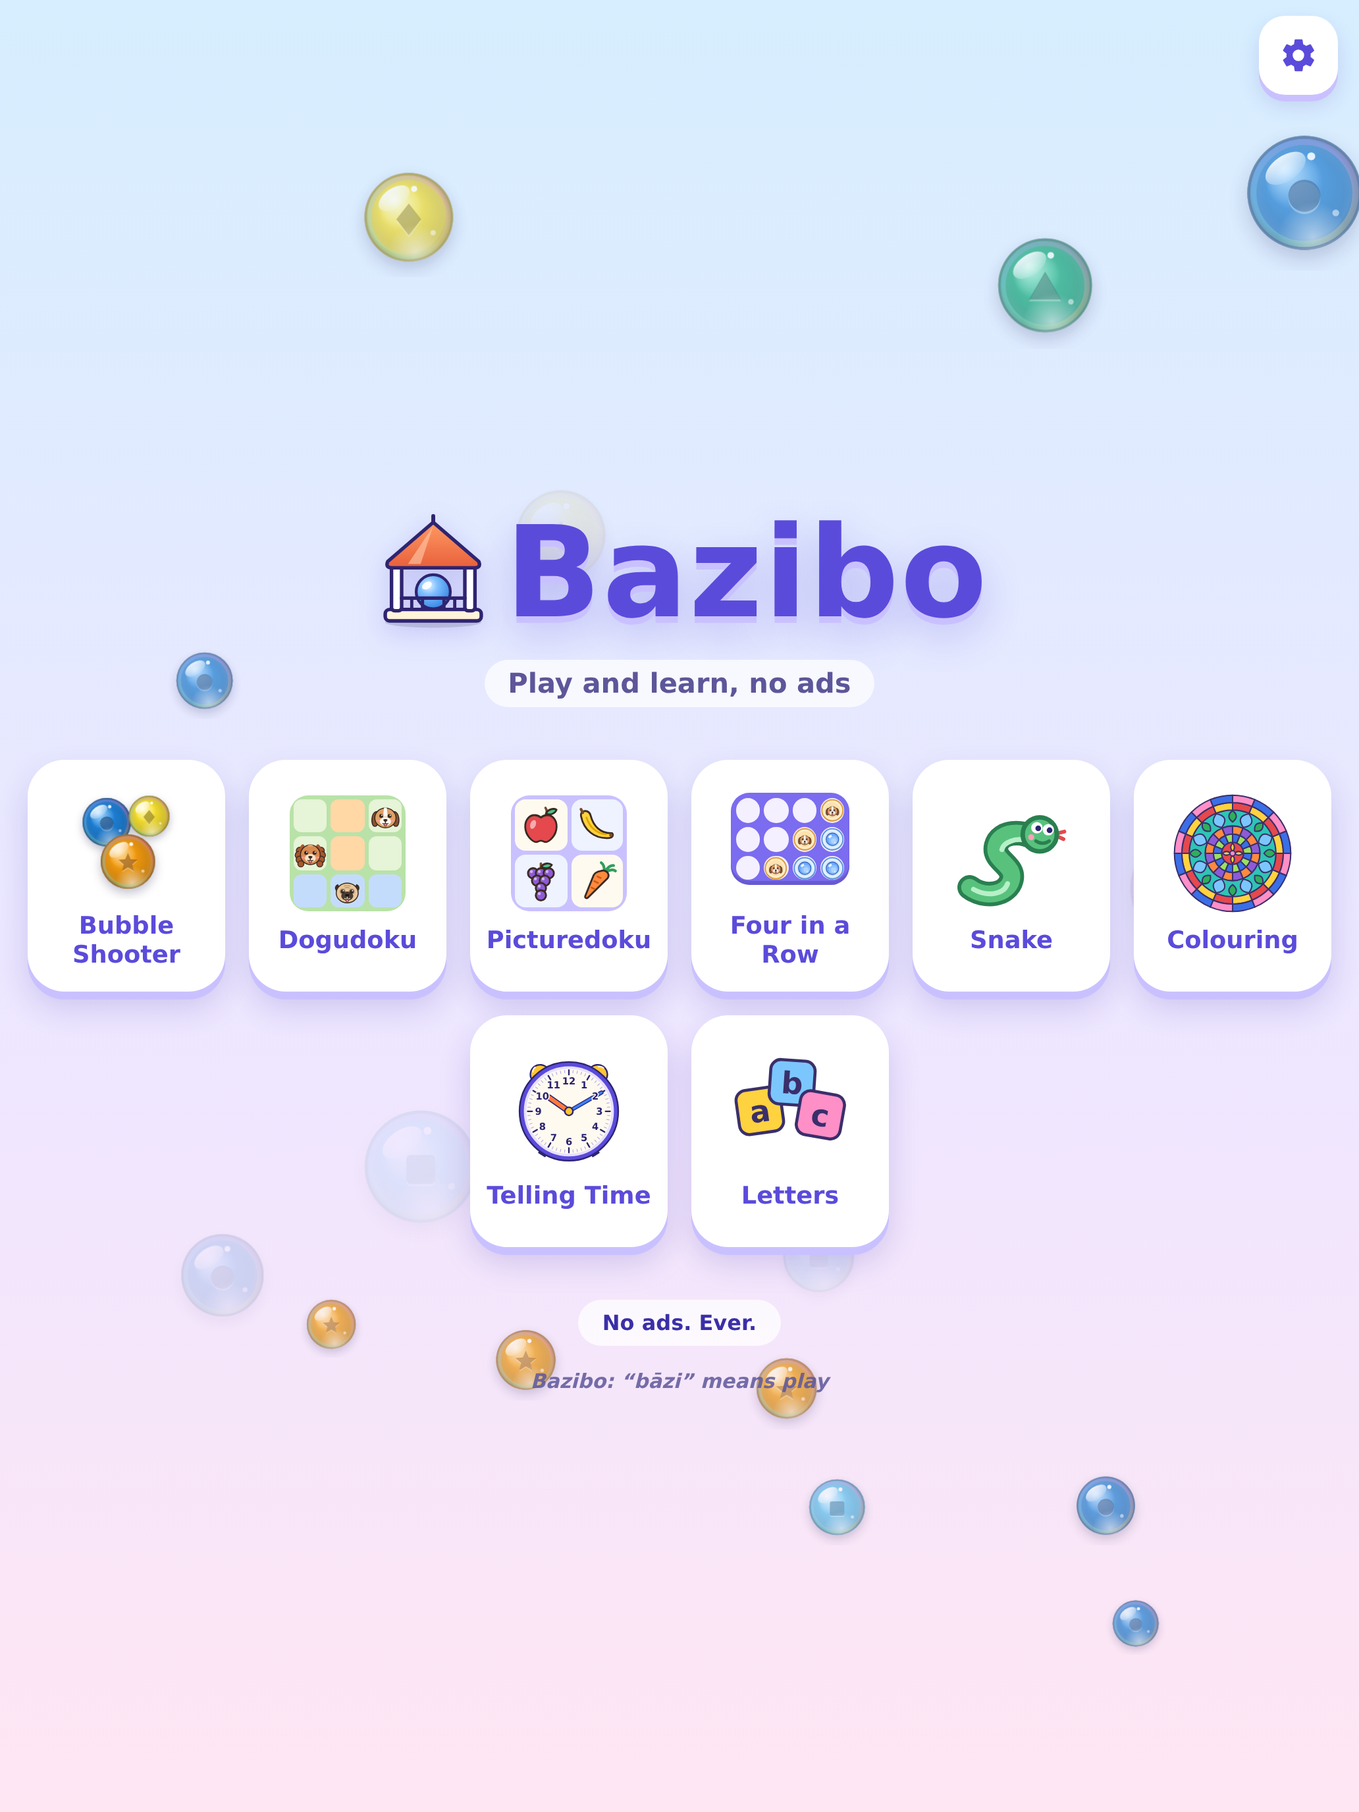
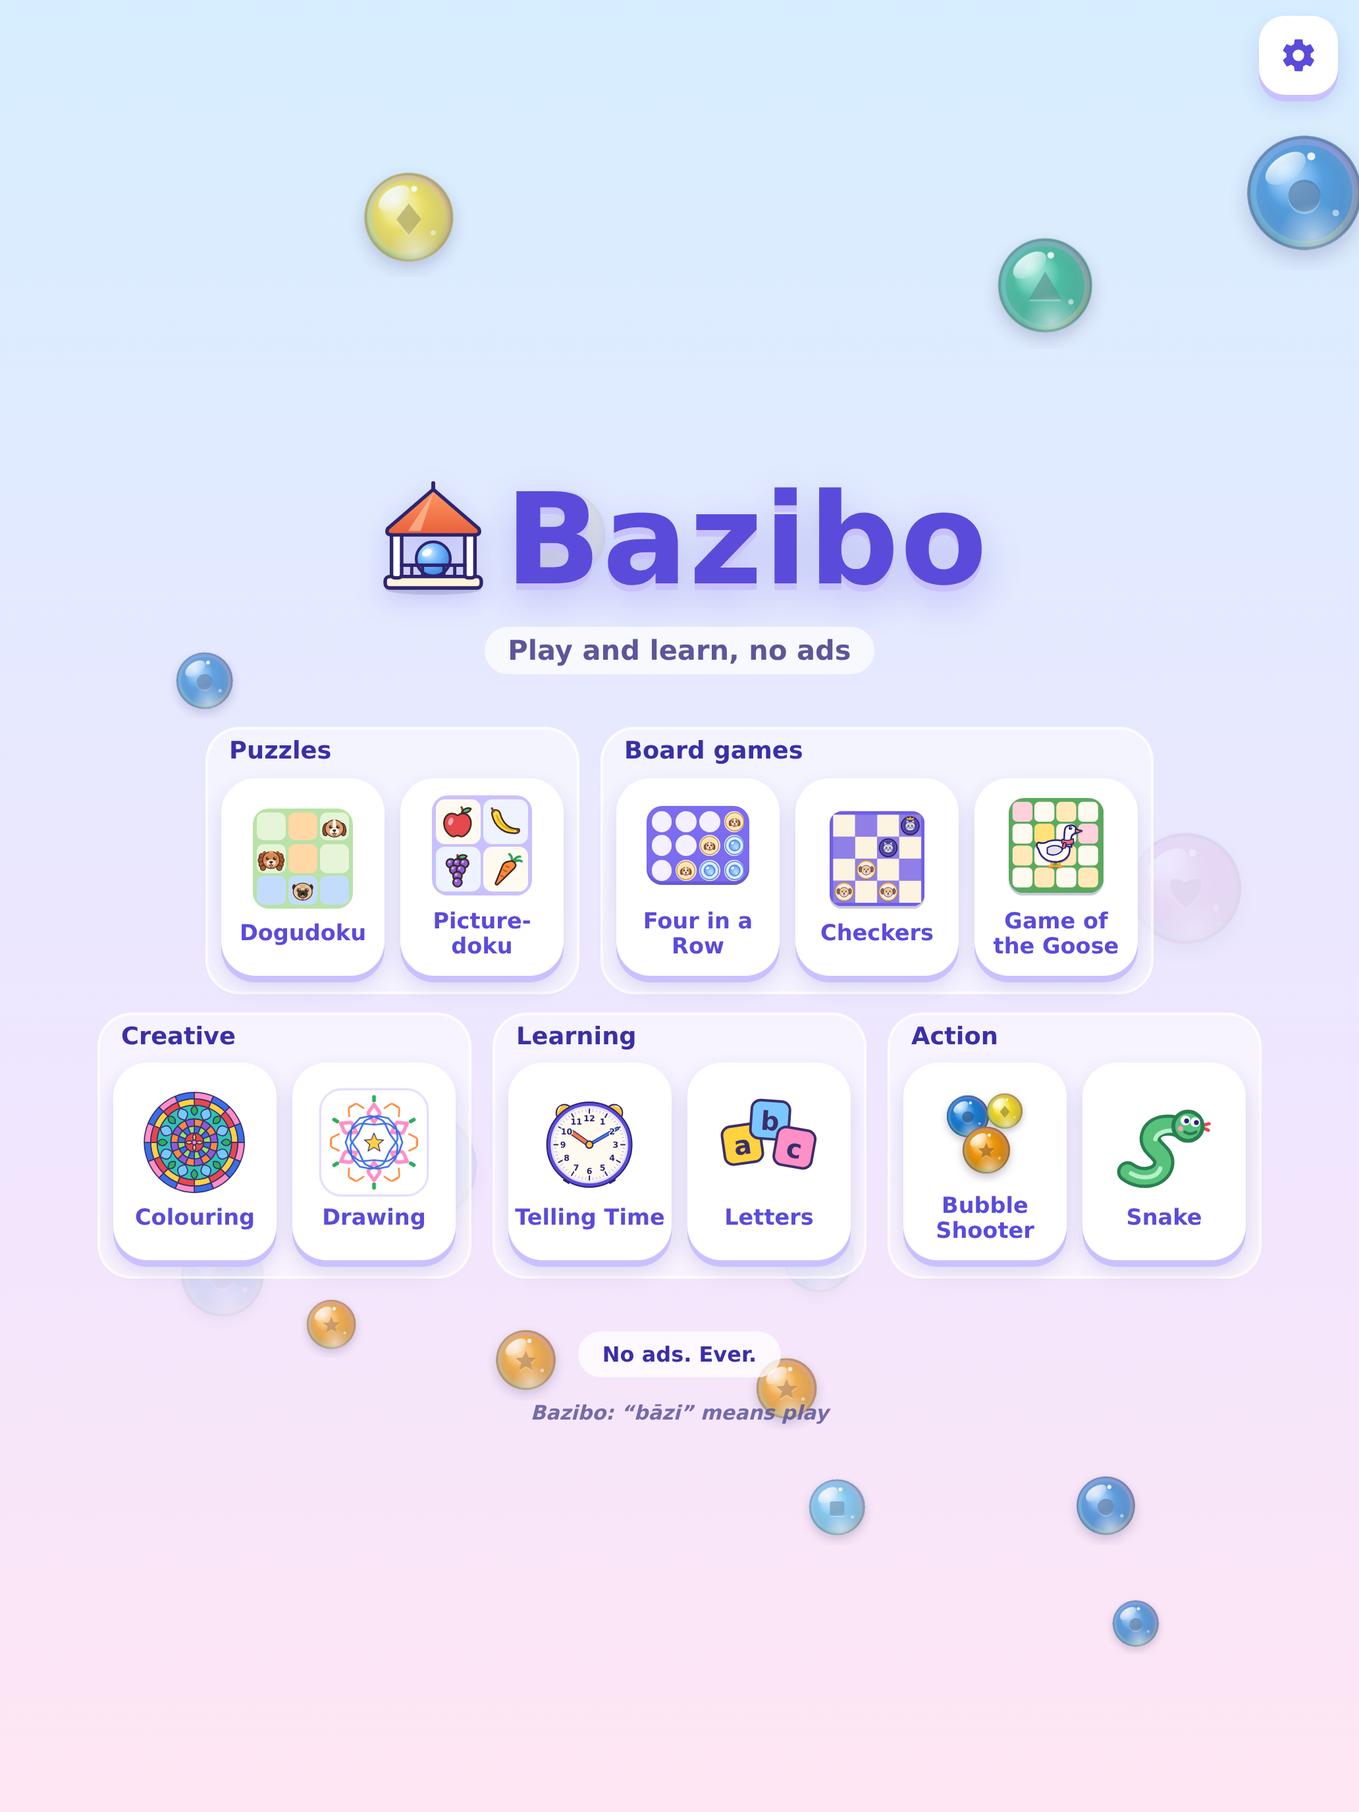
Home screen: the game tiles as an app grid, in sections
The tiles sat in one long column (two side by side). They now stand in five
sections, like folders on a phone: Puzzels/Puzzles, Bordspellen/Board games,
Creatief/Creative, Leren/Learning, Actie/Action.

- Data-driven: each game's meta.js names its `group`; GROUPS in games.js holds
  the sections and their order. main.js builds the tiles (same ids, same art,
  same click handling); index.html only has the container.
- Each section is a CSS grid with auto-fill/minmax: 3 tiles a row on phones
  from 360 px, 2 at 320 px (so the names stay whole), and on wider screens the
  sections stand side by side (tablet 5 a row, desktop 7).
- The 92 px tile drawings are scaled with `zoom` per size.
- Section headings in nl and en through t(); a test checks every game has a
  known section and no section is empty.
- Store screenshots: only 1-start (the home screen) regenerated.

Changed region(s): [[0.031, 0.25, 0.9922, 0.7812]]

diff --git a/web/css/style.css b/web/css/style.css
@@ -139,38 +139,70 @@ html, body {
   padding: 12px 16px;
   z-index: 1;
 }
-.tiles {
+/* The tiles sit in sections (a group per kind of game, built by main.js), like the folders on a
+   phone's home screen. Phones: the sections are stacked and each one is a grid that fits as many
+   tiles of at least --tile-min as the width allows (3 on most phones, 2 on 320 px). Wider screens:
+   the sections stand side by side, each as wide as its own tiles (--n, set by main.js). */
+.tile-groups {
+  --tile-min: 96px;
+  --tile-gap: 10px;
+  --group-pad: 10px;
+  --art: 0.66; /* the 92 px drawings on the tiles, scaled */
+  width: 100%;
+  max-width: 560px;
   display: flex;
   flex-wrap: wrap;
   justify-content: center;
-  gap: 18px;
+  gap: 14px;
   margin: 0 0 4px;
+}
+.tile-group {
+  flex: 1 1 100%;
+  min-width: 0;
+  padding: 8px var(--group-pad) 14px;
+  border-radius: 26px;
+  background: rgba(255, 255, 255, 0.5);
+  box-shadow: inset 0 0 0 2px rgba(255, 255, 255, 0.75);
+  text-align: left;
+}
+.group-name {
+  margin: 0 6px 8px;
+  font-size: 1.05rem;
+  font-weight: 900;
+  line-height: 1.2;
+  color: var(--primary-dark);
+}
+.tiles {
+  display: grid;
+  grid-template-columns: repeat(auto-fill, minmax(var(--tile-min), 1fr));
+  gap: var(--tile-gap);
 }
 .tile {
   font: inherit;
   position: relative;
-  width: 150px;
-  min-height: 176px;
-  padding: 14px 10px 16px;
+  min-width: 0;
+  min-height: 116px;
+  padding: 10px 5px;
   border: 0;
-  border-radius: 28px;
+  border-radius: 22px;
   background: #fff;
   color: var(--primary);
-  box-shadow: 0 6px 0 #c9c1ff, 0 12px 24px rgba(59, 47, 168, 0.18);
+  box-shadow: 0 5px 0 #c9c1ff, 0 8px 16px rgba(59, 47, 168, 0.16);
   display: flex;
   flex-direction: column;
   align-items: center;
   justify-content: center;
-  gap: 10px;
+  gap: 6px;
+  text-align: center;
   cursor: pointer;
   touch-action: manipulation;
   transition: transform 0.08s ease, box-shadow 0.08s ease;
 }
-.tile:active { transform: translateY(4px); box-shadow: 0 2px 0 #c9c1ff, 0 4px 10px rgba(59, 47, 168, 0.18); }
-.tile:focus-visible { outline: 4px solid var(--gold); outline-offset: 4px; }
-.tile-art { width: 92px; height: 92px; display: block; }
-.tile-art > span { flex: none; } /* the drawn mini boards keep their shape when scaled */
-.tile-name { font-size: 1.15rem; font-weight: 900; line-height: 1.15; overflow-wrap: anywhere; hyphens: manual; }
+.tile:active { transform: translateY(4px); box-shadow: 0 1px 0 #c9c1ff, 0 3px 8px rgba(59, 47, 168, 0.18); }
+.tile:focus-visible { outline: 4px solid var(--gold); outline-offset: 3px; }
+.tile-art { width: 92px; height: 92px; display: block; flex: none; zoom: var(--art); }
+.tile-art > span { flex: none; } /* the drawn mini boards keep their shape */
+.tile-name { font-size: 0.92rem; font-weight: 900; line-height: 1.15; overflow-wrap: break-word; hyphens: manual; }
 .tile.soon { background: rgba(255, 255, 255, 0.72); color: var(--ink-soft); }
 .tile.soon .tile-art { opacity: 0.6; }
 .badge {
@@ -393,17 +425,35 @@ html, body {
   .brand-mark { width: 52px; height: 52px; }
   .btn.big { min-height: 60px; font-size: 1.4rem; }
   .tagline { margin-bottom: 4px; }
-  .tile { min-height: 132px; width: 132px; padding: 10px; }
-  .tile-art { width: 64px; height: 64px; }
-  .tile-art > span { transform: scale(0.72); } /* the small drawn boards on the tiles */
   .promise { display: none; }
+  .tile-groups { --tile-min: 92px; --tile-gap: 8px; --group-pad: 8px; --art: 0.62; }
+  .tile { min-height: 108px; padding: 8px 4px; }
+  .tile-name { font-size: 0.86rem; }
+  .group-name { margin-bottom: 6px; font-size: 1rem; }
 }
 
-/* narrow phones (320-360 px): two tiles side by side instead of one long column */
-@media (max-width: 360px) {
-  .tiles { gap: 14px; }
-  .tile { width: 132px; min-height: 152px; padding: 10px 8px 12px; gap: 8px; }
-  .tile-art { width: 76px; height: 76px; }
-  .tile-art > span { transform: scale(0.84); }
+/* narrow phones (320 px): two tiles a row, so the names stay whole; the drawings a bit bigger */
+@media (max-width: 359px) {
+  .tile-groups { --art: 0.78; --tile-gap: 10px; }
+}
+
+/* wider screens: the sections side by side, each as wide as its tiles */
+@media (min-width: 560px) {
+  .tile-groups { max-width: 1180px; gap: 14px 16px; }
+  .tile-group {
+    flex: 0 1 auto;
+    width: calc(var(--n) * var(--tile-min) + (var(--n) - 1) * var(--tile-gap) + 2 * var(--group-pad));
+  }
+}
+/* tablets and desktop (tall enough): bigger tiles */
+@media (min-width: 720px) and (min-height: 521px) {
+  .tile-groups { --tile-min: 124px; --tile-gap: 12px; --group-pad: 12px; --art: 0.86; }
+  .tile { min-height: 150px; border-radius: 26px; gap: 8px; }
   .tile-name { font-size: 1.05rem; }
+  .group-name { font-size: 1.15rem; }
+}
+@media (min-width: 1100px) and (min-height: 521px) {
+  .tile-groups { --tile-min: 140px; --art: 0.95; }
+  .tile { min-height: 166px; }
+  .tile-name { font-size: 1.12rem; }
 }

diff --git a/web/index.html b/web/index.html
@@ -26,7 +26,7 @@
 </head>
 <body>
   <main id="app">
-    <!-- home: the brand and one tile per game -->
+    <!-- home: the brand and one tile per game, grouped -->
     <section id="screen-home" class="screen active" data-i18n-aria="home.label" aria-label="Start">
       <canvas id="home-bg" aria-hidden="true"></canvas>
       <header class="home-top">
@@ -41,52 +41,8 @@
           <h1 class="logo" id="brand-name">Bazibo</h1>
         </div>
         <p class="tagline" id="brand-tagline">Spelen en leren, zonder reclame</p>
-        <div class="tiles" role="group" data-i18n-aria="home.games" aria-label="Spellen">
-          <button id="tile-bubbels" class="tile" type="button" data-game="bubbels">
-            <canvas class="tile-art" width="160" height="160" aria-hidden="true"></canvas>
-            <span class="tile-name" data-i18n="bubbels.title">Bubbels schieten</span>
-          </button>
-          <button id="tile-dogudoku" class="tile" type="button" data-game="dogudoku">
-            <span class="tile-art" aria-hidden="true"></span>
-            <span class="tile-name" data-i18n="games.dogudoku">Dogudoku</span>
-          </button>
-          <button id="tile-picturedoku" class="tile" type="button" data-game="picturedoku">
-            <span class="tile-art" aria-hidden="true"></span>
-            <span class="tile-name" data-i18n="games.picturedoku">Picture&shy;doku</span>
-          </button>
-          <button id="tile-vier" class="tile" type="button" data-game="vier">
-            <span class="tile-art" aria-hidden="true"></span>
-            <span class="tile-name" data-i18n="games.vier">Vier op een rij</span>
-          </button>
-          <button id="tile-dammen" class="tile" type="button" data-game="dammen">
-            <span class="tile-art" aria-hidden="true"></span>
-            <span class="tile-name" data-i18n="games.dammen">Dammen</span>
-          </button>
-          <button id="tile-ganzen" class="tile" type="button" data-game="ganzen">
-            <span class="tile-art" aria-hidden="true"></span>
-            <span class="tile-name" data-i18n="games.ganzen">Ganzenbord</span>
-          </button>
-          <button id="tile-slang" class="tile" type="button" data-game="slang">
-            <span class="tile-art" aria-hidden="true"></span>
-            <span class="tile-name" data-i18n="games.slang">Slangetje</span>
-          </button>
-          <button id="tile-kleuren" class="tile" type="button" data-game="kleuren">
-            <span class="tile-art" aria-hidden="true"></span>
-            <span class="tile-name" data-i18n="games.kleuren">Kleurplaten</span>
-          </button>
-          <button id="tile-tekenen" class="tile" type="button" data-game="tekenen">
-            <span class="tile-art" aria-hidden="true"></span>
-            <span class="tile-name" data-i18n="games.tekenen">Tekenen</span>
-          </button>
-          <button id="tile-klok" class="tile" type="button" data-game="klok">
-            <span class="tile-art" aria-hidden="true"></span>
-            <span class="tile-name" data-i18n="games.klok">Klok kijken</span>
-          </button>
-          <button id="tile-letters" class="tile" type="button" data-game="letters">
-            <span class="tile-art" aria-hidden="true"></span>
-            <span class="tile-name" data-i18n="games.letters">Letters</span>
-          </button>
-        </div>
+        <!-- the game tiles, in sections (Puzzels, Bordspellen, ...): built by main.js from GROUPS and GAMES in js/games.js -->
+        <div class="tile-groups" id="tile-groups" role="group" data-i18n-aria="home.games" aria-label="Spellen"></div>
         <p class="promise" data-i18n="home.promise">Geen reclame. Nooit.</p>
         <p class="lore" id="brand-lore">Bazibo: “bāzi” betekent spel</p>
       </div>

diff --git a/web/js/main.js b/web/js/main.js
@@ -2,7 +2,7 @@
 // the one purchase that opens every game. Each game lives in web/games/<id>/.
 import { BRAND } from './brand.js';
 import { gazeboSvg } from './logo.js';
-import { GAMES } from './games.js';
+import { GAMES, GROUPS } from './games.js';
 import { t, getLang, setLang, pickLang, onLangChange, translateDom } from './i18n.js';
 import { COLORS, getSprite, drawBubble } from './bubble-art.js';
 import * as store from './storage.js';
@@ -152,6 +152,49 @@ $('#btn-transfer').addEventListener('click', () => {
 });
 
 // ---------- home tiles ----------
+
+/** One section per group (GROUPS in games.js) with its games' tiles, in GAMES order. The art is
+ *  drawn into each `.tile-art` later (drawTileArt and friends); the texts come from translateDom. */
+function buildTiles() {
+  const box = $('#tile-groups');
+  for (const group of GROUPS) {
+    const list = GAMES.filter((g) => g.group === group.id);
+    if (!list.length) continue;
+    const section = document.createElement('section');
+    section.className = 'tile-group';
+    section.style.setProperty('--n', list.length);
+    const head = document.createElement('h2');
+    head.className = 'group-name';
+    head.id = `group-${group.id}`;
+    head.dataset.i18n = group.titleKey;
+    head.textContent = t(group.titleKey);
+    const tiles = document.createElement('div');
+    tiles.className = 'tiles';
+    tiles.setAttribute('role', 'group');
+    tiles.setAttribute('aria-labelledby', head.id);
+    for (const game of list) {
+      const tile = document.createElement('button');
+      tile.id = `tile-${game.id}`;
+      tile.className = game.status === 'ready' ? 'tile' : 'tile soon';
+      tile.type = 'button';
+      tile.dataset.game = game.id;
+      // Bubbels paints its bubbles on a canvas; the other games put their own drawing in a span
+      const art = document.createElement(game.id === 'bubbels' ? 'canvas' : 'span');
+      if (art instanceof HTMLCanvasElement) art.width = art.height = 160;
+      art.className = 'tile-art';
+      art.setAttribute('aria-hidden', 'true');
+      const name = document.createElement('span');
+      name.className = 'tile-name';
+      name.dataset.i18n = game.titleKey;
+      name.textContent = t(game.titleKey);
+      tile.append(art, name);
+      tiles.append(tile);
+    }
+    section.append(head, tiles);
+    box.append(section);
+  }
+}
+buildTiles();
 
 function drawTileArt() {
   const c = $('#tile-bubbels .tile-art');
@@ -391,7 +434,7 @@ const homeAnim = {
       canvas.width = Math.round(w * dpr);
       canvas.height = Math.round(h * dpr);
       const base = canvas.getBoundingClientRect();
-      keepOut = ['.logo', '.tagline', '.tiles'].map((sel) => {
+      keepOut = ['.logo', '.tagline', '.tile-groups'].map((sel) => {
         const r = $(sel).getBoundingClientRect();
         return { x0: r.left - base.left, x1: r.right - base.left, y0: r.top - base.top, y1: r.bottom - base.top };
       });

diff --git a/tests/i18n.test.js b/tests/i18n.test.js
@@ -18,7 +18,7 @@ import { STAMPS } from '../web/games/tekenen/drawing.js';
 import '../web/games/klok/strings.js';
 import '../web/games/letters/strings.js';
 import '../web/js/random.js';
-import { GAMES } from '../web/js/games.js';
+import { GAMES, GROUPS } from '../web/js/games.js';
 import { BRAND } from '../web/js/brand.js';
 
 const WEB = new URL('../web/', import.meta.url).pathname;
@@ -51,6 +51,7 @@ test('every key used in index.html and in the code exists', () => {
     for (const m of readFileSync(f, 'utf8').matchAll(/\bt\('([a-zA-Z0-9.]+)'/g)) used.add(m[1]);
   }
   for (const g of GAMES) used.add(g.titleKey);
+  for (const g of GROUPS) used.add(g.titleKey); // the section headings on the home screen
   for (const n of [1, 2, 3]) used.add(`bubbels.win${n}`); // built as t(`bubbels.win${stars}`)
   for (const n of [1, 2, 3]) used.add(`dogudoku.win${n}`);
   for (const r of ['row', 'col', 'region', 'touch', 'bush']) used.add(`dogudoku.rule.${r}`).add(`dogudoku.oops.${r}`);
@@ -108,4 +109,11 @@ test('t() fills placeholders and the brand name, and switches language', () => {
 test('the brand has a name and a tagline in every language', () => {
   assert.ok(BRAND.name);
   for (const l of LANGS) assert.ok(BRAND.tagline[l], `tagline missing for ${l}`);
+});
+
+test('every game sits in one section of the home screen, and no section is empty', () => {
+  const ids = GROUPS.map((g) => g.id);
+  assert.equal(new Set(ids).size, ids.length, 'a section id twice');
+  for (const g of GAMES) assert.ok(ids.includes(g.group), `${g.id}: group ${g.group} is not in GROUPS`);
+  for (const id of ids) assert.ok(GAMES.some((g) => g.group === id), `section ${id} has no games`);
 });

diff --git a/web/js/games.js b/web/js/games.js
@@ -1,6 +1,7 @@
 // The games in the app, in the order of the tiles on the home screen. A game that is not ready
 // yet shows as a "coming soon" tile. Adding a game: web/games/<id>/ with meta.js (id, titleKey,
-// free tier), strings.js and a controller, then an entry here and a tile in index.html.
+// group, free tier), strings.js and a controller, then an entry here; the shell builds its tile
+// in the section of its `group` (main.js) and draws its art.
 import { meta as bubbels } from '../games/bubbels/meta.js';
 import { meta as dogudoku } from '../games/dogudoku/meta.js';
 import { meta as picturedoku } from '../games/picturedoku/meta.js';
@@ -12,6 +13,16 @@ import { meta as kleuren } from '../games/kleuren/meta.js';
 import { meta as tekenen } from '../games/tekenen/meta.js';
 import { meta as klok } from '../games/klok/meta.js';
 import { meta as letters } from '../games/letters/meta.js';
+
+// The sections of the home screen, in order. A game picks one with `group` in its meta.js; within
+// a section the tiles follow the order of GAMES.
+export const GROUPS = [
+  { id: 'puzzles', titleKey: 'home.group.puzzles' },
+  { id: 'board', titleKey: 'home.group.board' },
+  { id: 'creative', titleKey: 'home.group.creative' },
+  { id: 'learning', titleKey: 'home.group.learning' },
+  { id: 'action', titleKey: 'home.group.action' },
+];
 
 export const GAMES = [
   { ...bubbels, status: 'ready' },

diff --git a/web/js/i18n.js b/web/js/i18n.js
@@ -65,6 +65,11 @@ addStrings({
     'home.settings': 'Instellingen',
     'home.soon': 'binnenkort',
     'home.promise': 'Geen reclame. Nooit.',
+    'home.group.puzzles': 'Puzzels',
+    'home.group.board': 'Bordspellen',
+    'home.group.creative': 'Creatief',
+    'home.group.learning': 'Leren',
+    'home.group.action': 'Actie',
     'soon.title': 'Komt eraan!',
     'soon.text': 'Aan dit spel wordt nog gewerkt. Tot die tijd: veel plezier met de andere spellen!',
     'games.picturedoku': 'Picture\u00ADdoku',
@@ -164,6 +169,11 @@ addStrings({
     'home.settings': 'Settings',
     'home.soon': 'coming soon',
     'home.promise': 'No ads. Ever.',
+    'home.group.puzzles': 'Puzzles',
+    'home.group.board': 'Board games',
+    'home.group.creative': 'Creative',
+    'home.group.learning': 'Learning',
+    'home.group.action': 'Action',
     'soon.title': 'Coming soon!',
     'soon.text': 'This game is still being made. Until then, have fun with the other games!',
     'games.picturedoku': 'Picture\u00ADdoku',

diff --git a/web/sw.js b/web/sw.js
@@ -1,7 +1,7 @@
 // Offline play: precache the whole (small) app with all its games, then serve cache-first.
 // VERSION is a hash of every file in ASSETS, written by `npm run stamp` (tools/stamp-sw.mjs).
 // `npm test` fails when it does not match, so a release cannot leave players on an old build.
-const VERSION = 'bubbels-ce399b03a6';
+const VERSION = 'bubbels-257fb40aad';
 const ASSETS = [
   './',
   'index.html',

diff --git a/web/games/dammen/meta.js b/web/games/dammen/meta.js
@@ -4,6 +4,7 @@
 export const meta = Object.freeze({
   id: 'dammen',
   titleKey: 'games.dammen',
+  group: 'board', // the section on the home screen (GROUPS in js/games.js)
   freeLevels: Object.freeze([1]),
   freeVariants: Object.freeze(['small']),
   /** Is this game setup behind the full version? `setup`: { variant, mode: 'duo'|'cpu', level }. */

diff --git a/web/games/ganzen/meta.js b/web/games/ganzen/meta.js
@@ -4,6 +4,7 @@
 export const meta = Object.freeze({
   id: 'ganzen',
   titleKey: 'games.ganzen',
+  group: 'board', // the section on the home screen (GROUPS in js/games.js)
   freeBoards: Object.freeze(['classic']),
   freePlayers: 2,
   /** Is this game setup behind the full version? `setup`: { board, players: ['kid'|'cpu', ...] }. */

diff --git a/web/games/vier/meta.js b/web/games/vier/meta.js
@@ -4,6 +4,7 @@
 export const meta = Object.freeze({
   id: 'vier',
   titleKey: 'games.vier',
+  group: 'board', // the section on the home screen (GROUPS in js/games.js)
   freeLevels: Object.freeze([1, 2]),
   /** Is this game setup behind the full version? `setup`: { mode: 'duo'|'cpu', level }. */
   isLocked(setup, owned) {

diff --git a/web/games/klok/meta.js b/web/games/klok/meta.js
@@ -4,6 +4,7 @@
 export const meta = Object.freeze({
   id: 'klok',
   titleKey: 'games.klok',
+  group: 'learning', // the section on the home screen (GROUPS in js/games.js)
   freeTiers: Object.freeze(['t1', 't2']),
   /** Is this round (`{ mode, tier }`) behind the full version? */
   isLocked(round, owned) {

diff --git a/web/games/letters/meta.js b/web/games/letters/meta.js
@@ -4,6 +4,7 @@
 export const meta = Object.freeze({
   id: 'letters',
   titleKey: 'games.letters',
+  group: 'learning', // the section on the home screen (GROUPS in js/games.js)
   freeTiers: Object.freeze(['t1']),
   /** Is this round (`{ mode, tier }`) behind the full version? */
   isLocked(round, owned) {
